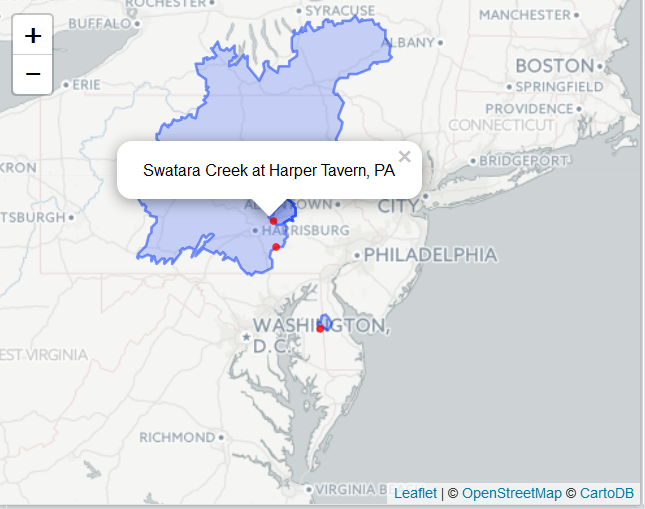
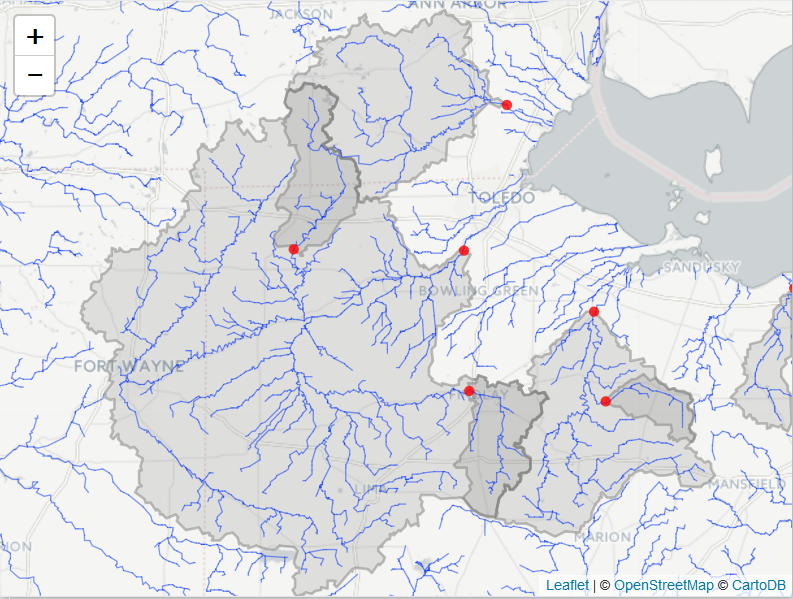
files

diff --git a/README.md b/README.md
@@ -27,20 +27,27 @@ Sample Workflow
 ===============
 
 ``` r
-library(dataRetrieval)
 library(hydroMap)
-
-sites <- c("01491000", "01573000", "01576000")
-
+library(dataRetrieval)
+sites <- c("01491000", "01573000", "01576000","01137500")
 siteInfo <- readNWISsite(sites)
+
 # png("test.png",width=11,height=8,units="in",res=600,pointsize=4)
-plotWSB(sites)
+plotWSB(sites, mapRange = c(-81,-73,38,44),streamorder = 4)
 ```
 
     ## OGR data source with driver: ESRI Shapefile 
-    ## Source: "C:\Users\ldecicco\AppData\Local\Temp\1\Rtmpkhr5kz", layer: "epa_basins"
-    ## with 3 features
+    ## Source: "C:\Users\ldecicco\AppData\Local\Temp\2\RtmpkfBzyP", layer: "epa_basins"
+    ## with 4 features
     ## It has 4 fields
+
+    ## OGR data source with driver: ESRI Shapefile 
+    ## Source: "C:\Users\ldecicco\AppData\Local\Temp\2\RtmpkfBzyP", layer: "nhdflowline_network"
+    ## with 21283 features
+    ## It has 89 fields
+
+    ## Warning in readOGR(filePath, layer = "nhdflowline_network"): Z-dimension
+    ## discarded
 
 ![](README_files/figure-markdown_github/unnamed-chunk-3-1.png)<!-- -->
 
@@ -56,9 +63,17 @@ plotWSB(sites)
 ```
 
     ## OGR data source with driver: ESRI Shapefile 
-    ## Source: "C:\Users\ldecicco\AppData\Local\Temp\1\Rtmpkhr5kz", layer: "epa_basins"
-    ## with 3 features
+    ## Source: "C:\Users\ldecicco\AppData\Local\Temp\2\RtmpkfBzyP", layer: "epa_basins"
+    ## with 4 features
     ## It has 4 fields
+
+    ## OGR data source with driver: ESRI Shapefile 
+    ## Source: "C:\Users\ldecicco\AppData\Local\Temp\2\RtmpkfBzyP", layer: "nhdflowline_network"
+    ## with 47523 features
+    ## It has 89 fields
+
+    ## Warning in readOGR(filePath, layer = "nhdflowline_network"): Z-dimension
+    ## discarded
 
 ``` r
 points(siteInfo$dec_long_va, siteInfo$dec_lat_va, pch=20, col="red", cex=2)
@@ -75,13 +90,17 @@ Create Interactive Graphs using Leaflet:
 ``` r
 library(leaflet)
 basins <- getBasin(sites)
+Range=c(-86.32679,-81.16322,39.61600,43.06262)
+flowLines <- getFlowLines(Range, 3)
+
 leaflet() %>% 
   addProviderTiles("CartoDB.Positron") %>% 
-  setView(-75.8, 40, zoom = 6) %>%
-  addPolygons(data=basins, weight=2) %>%
+  setView(-84, 41.35, zoom = 8) %>%
+  addPolygons(data=basins, weight=2, color = "grey") %>%
+  addPolylines(data=flowLines, weight=1) %>%
   addCircleMarkers(siteInfo$dec_long_va,siteInfo$dec_lat_va,
                    color = "red",
-                   radius=3,
+                   radius=4,
                    stroke=FALSE,
                    fillOpacity = 0.8, opacity = 0.8,
                    popup=siteInfo$station_nm)
